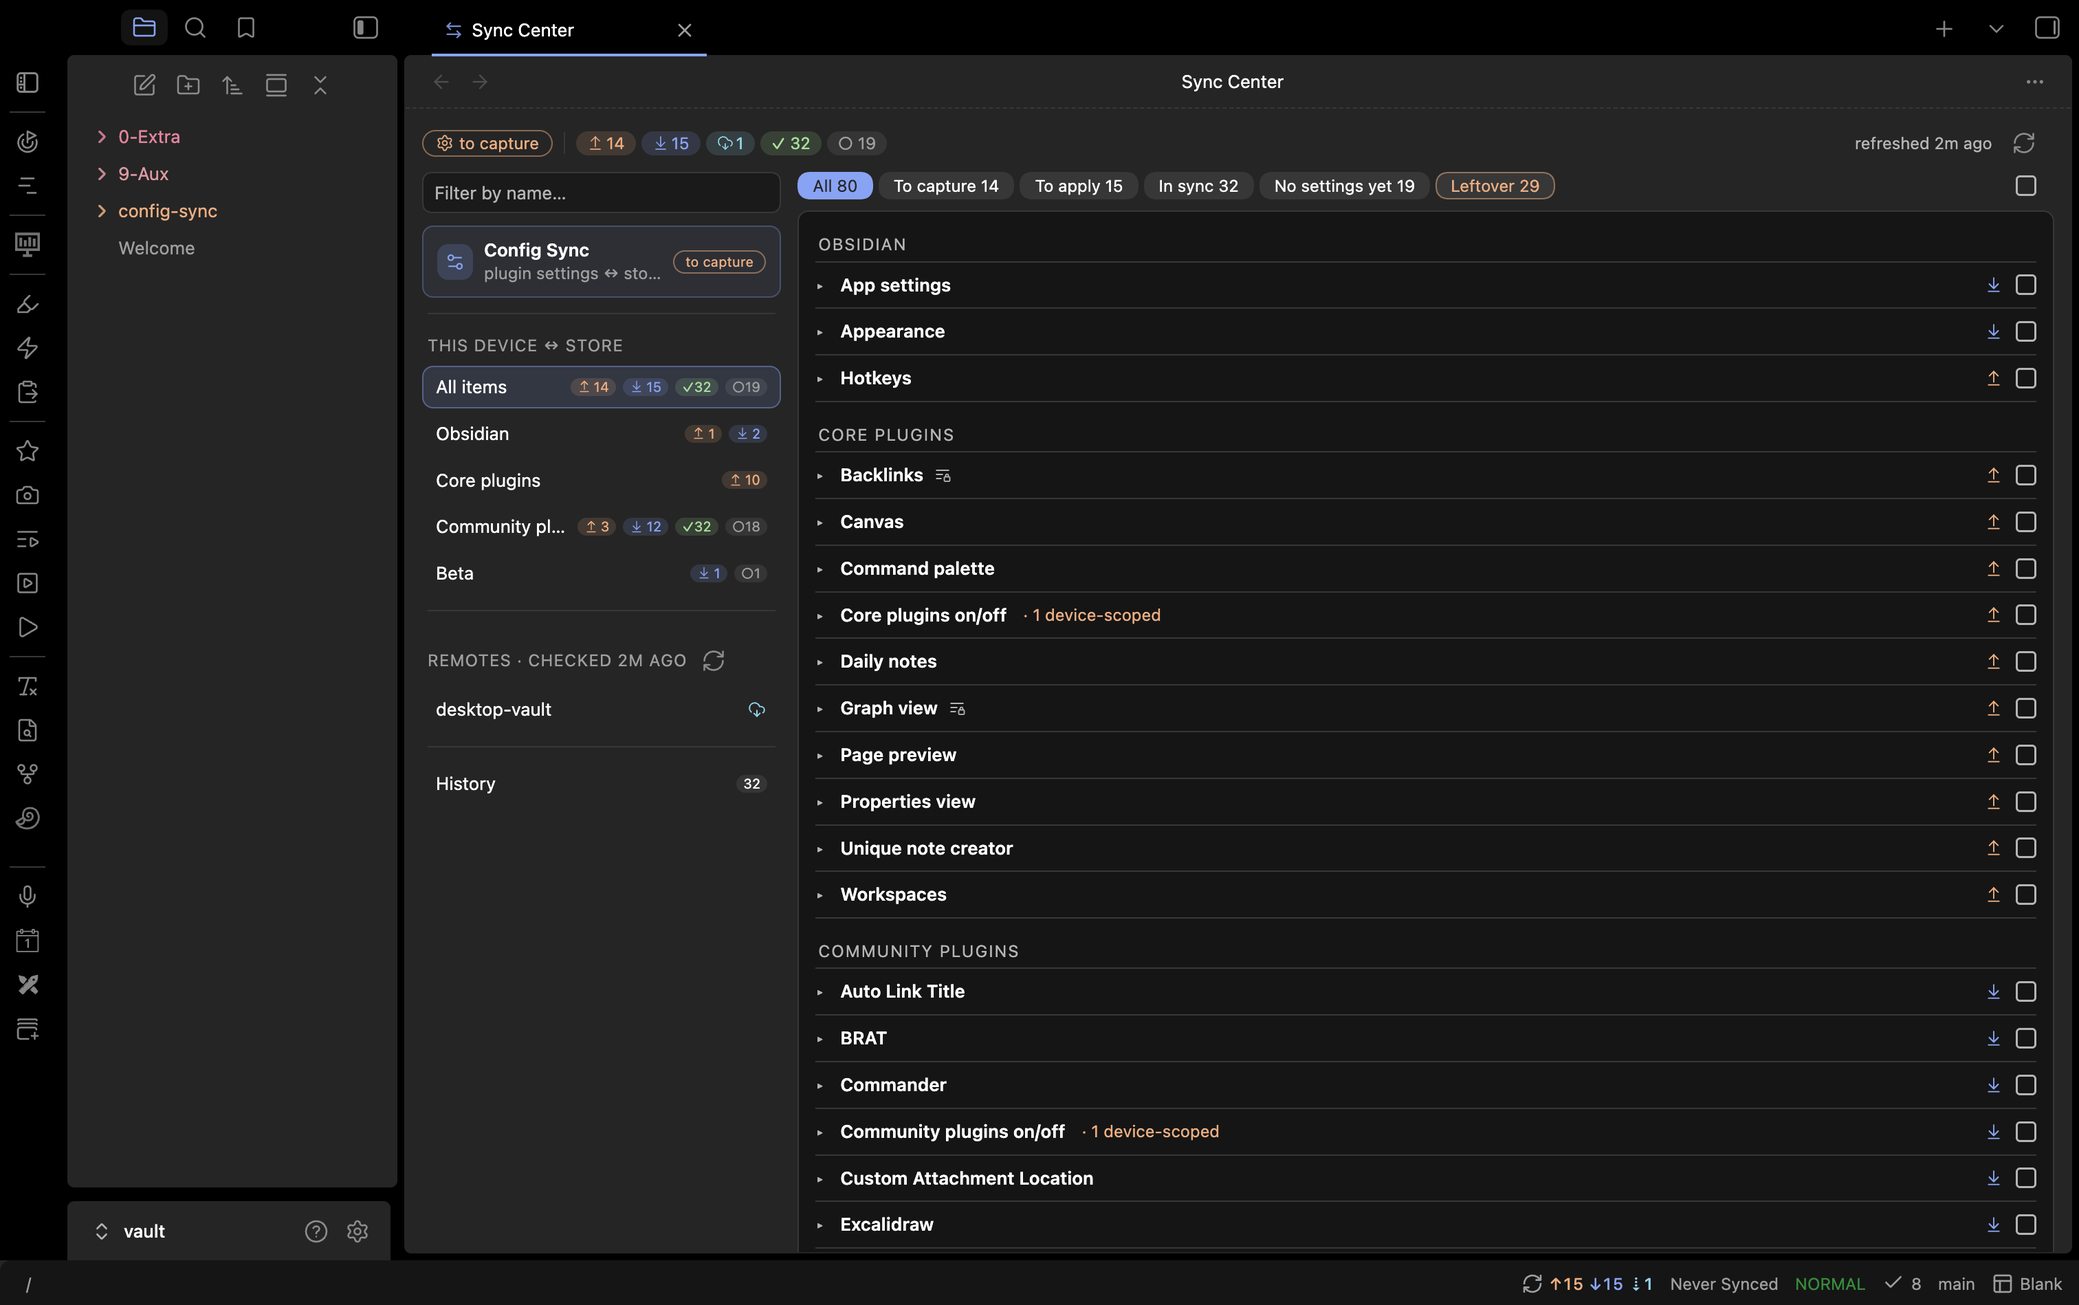
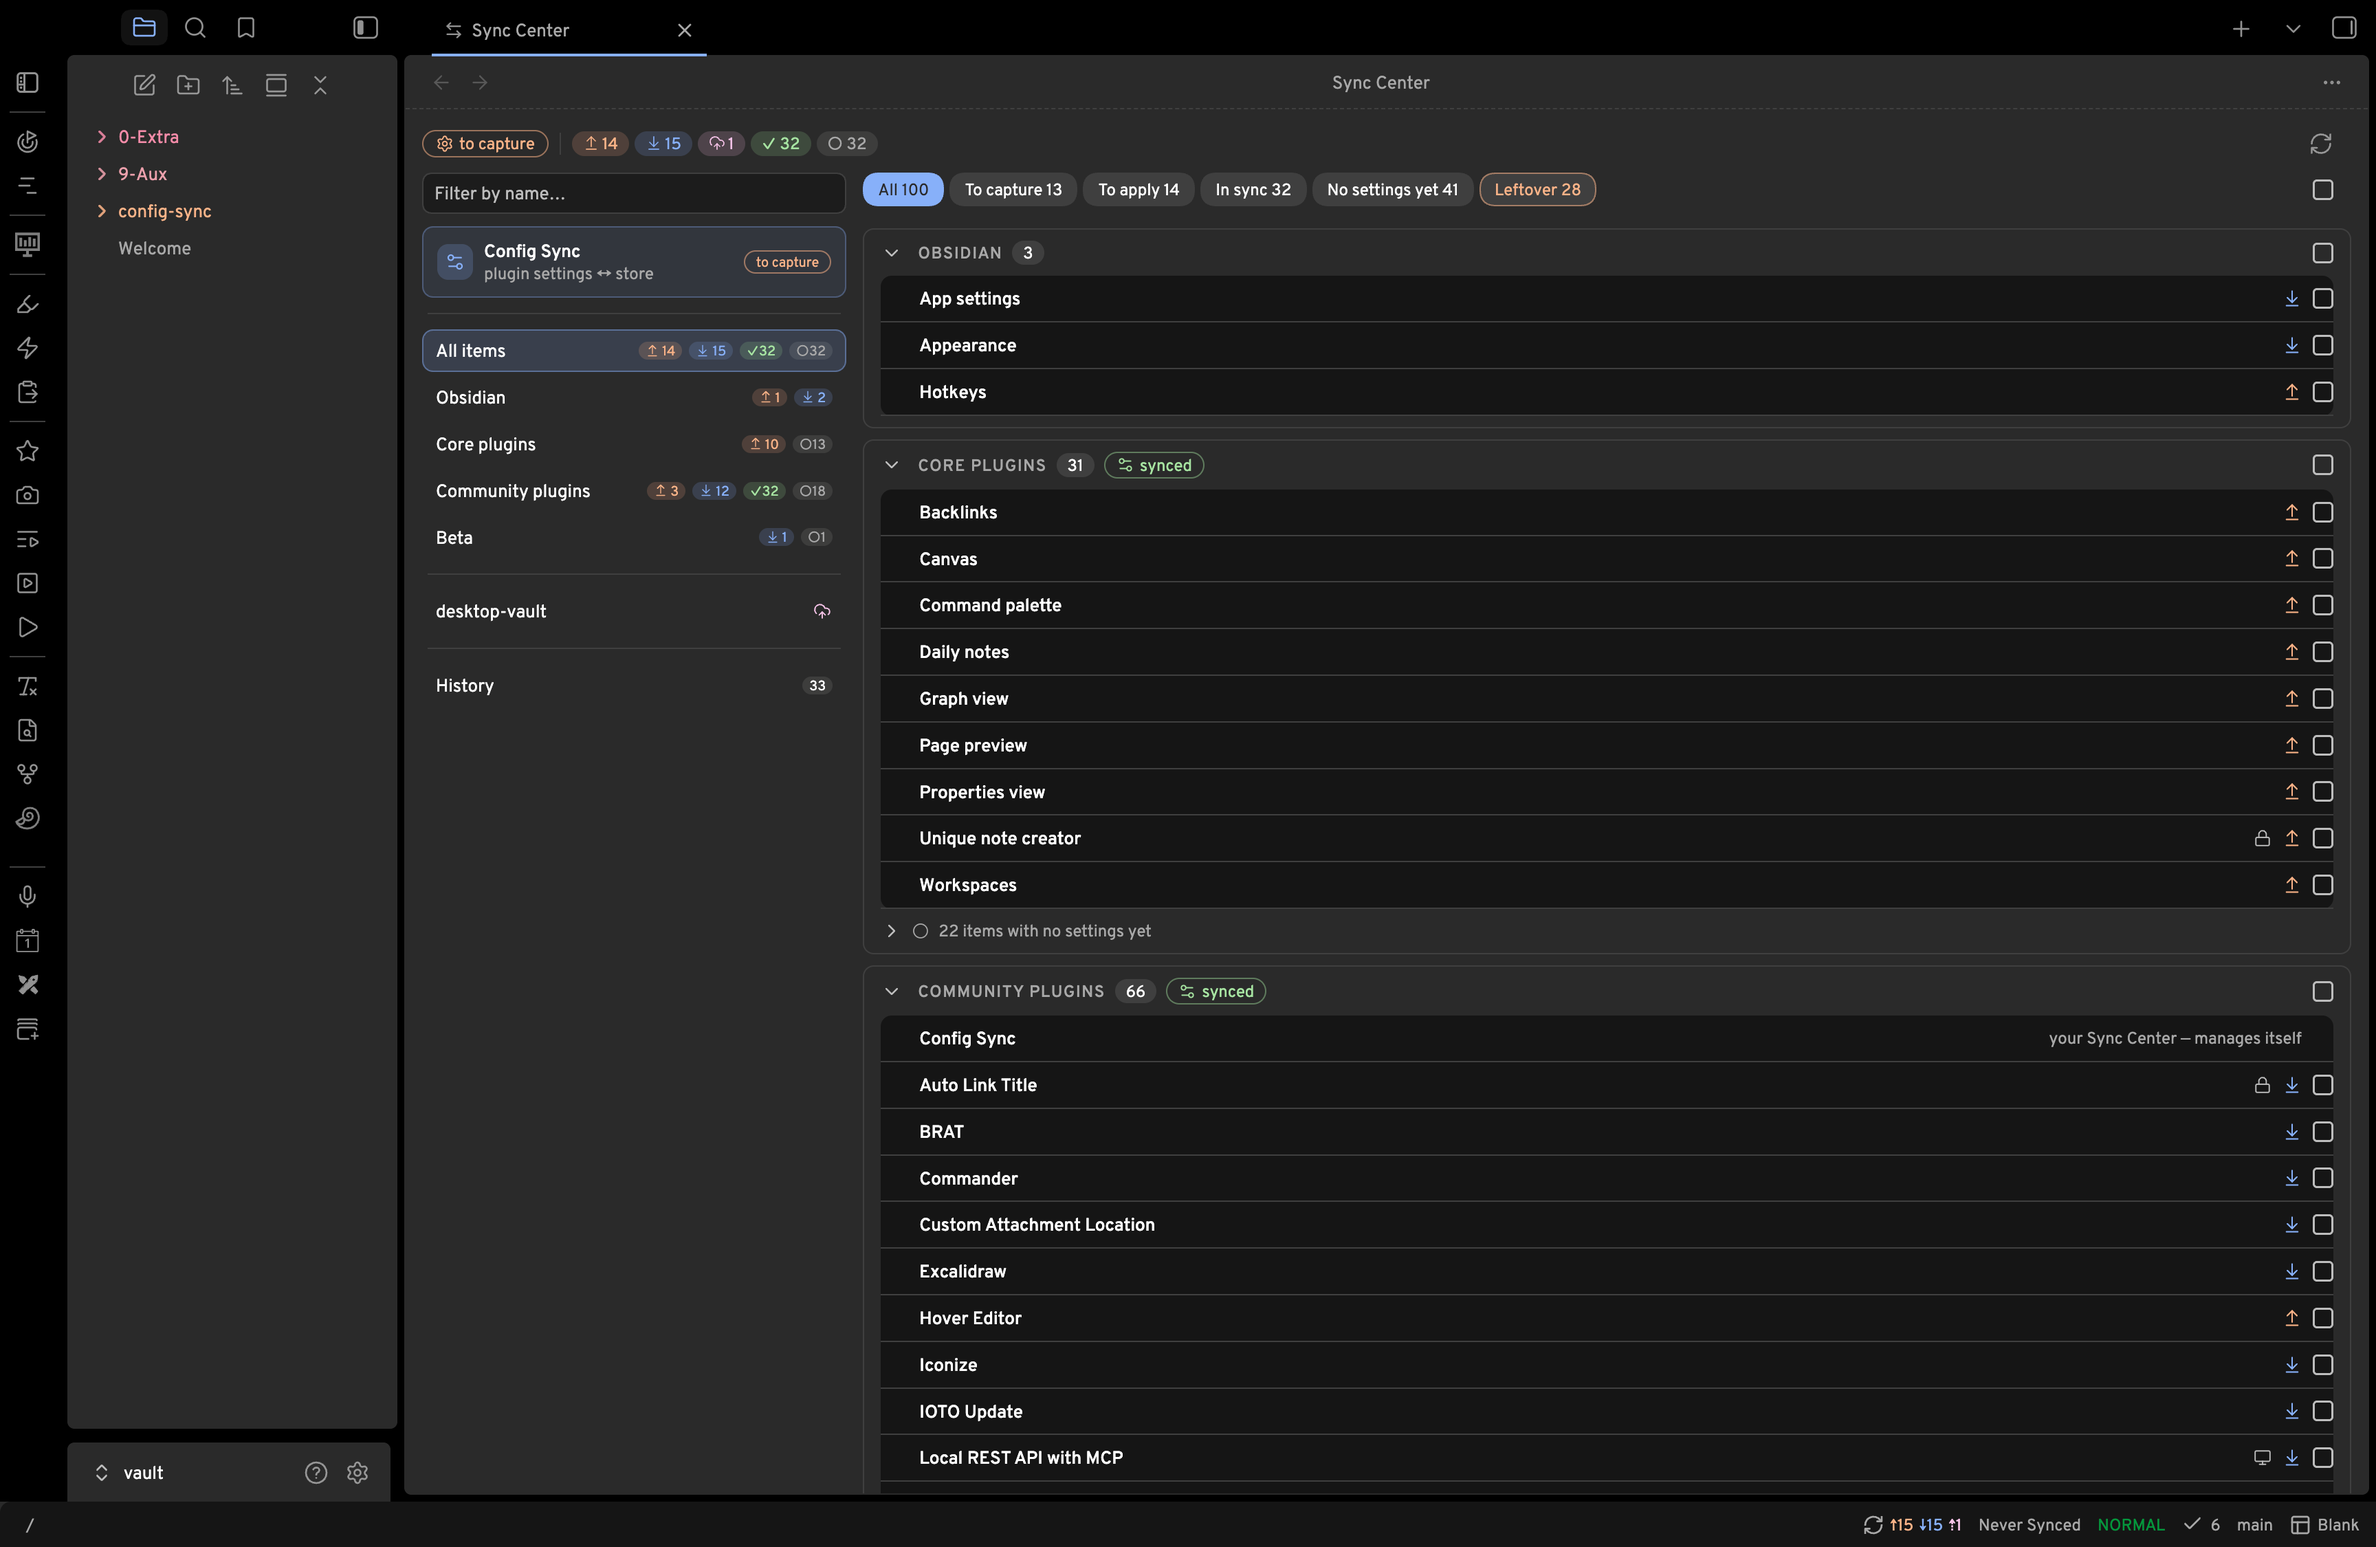
fix(ui): panel-local per-key edits, headless sidebar remotes group
- Advanced per-key edits rebuild only the fields editor panel (detached
  build + child swap, preview scroll carried, generation guard) instead
  of a whole-tab refresh whose async refill visibly collapsed the page;
  failed saves still fall back to the full refresh for the pinned error
- mode/type destructive-change guards read the rule from current state
  at click time — the render-time snapshot misses rules added through
  the panel's local rebuilds
- sidebar: remotes group head (label, checked-age, re-check button)
  removed entirely; grouping is dividers alone and the main region's
  global refresh owns remote re-checking
- refresh README screenshots (sync-panel, settings-picker)

diff --git a/src/ui/SettingTab.ts b/src/ui/SettingTab.ts
@@ -2408,11 +2408,14 @@ export class ConfigSyncSettingTab extends PluginSettingTab {
       void (async () => {
         // Leaving Per-key rules deletes every configured key rule — confirm instead of
         // silently destroying them (the card surface removes rules one at a time; this menu is
-        // the only place they could vanish in bulk).
-        const rulesDropped = group.mode === "fields" && mode !== "fields" ? (group.fields?.length ?? 0) : 0;
+        // the only place they could vanish in bulk). The rule count is read from this.groups at
+        // click time, never from the render-time `group` snapshot: per-key edits rebuild only
+        // the fields panel, so rules added since this drawer rendered are invisible to `group`.
+        const cur = this.groups.find((x) => x.name === group.name) ?? group;
+        const rulesDropped = cur.mode === "fields" && mode !== "fields" ? (cur.fields?.length ?? 0) : 0;
         if (rulesDropped > 0 && !(await confirmDropKeyRules(this.app, rulesDropped))) return;
         let fieldsForNewMode: FieldRule[] | undefined;
-        if (mode === "fields" && group.fields === undefined) {
+        if (mode === "fields" && cur.fields === undefined) {
           const scan = this.detections.get(group.name) ?? (await this.host.detectSensitive(group));
           this.detections.set(group.name, scan);
           if (scan.keys.length > 0) fieldsForNewMode = defaultFieldsFromDetection(scan.keys);
@@ -2451,15 +2454,43 @@ export class ConfigSyncSettingTab extends PluginSettingTab {
   // flattened the orthogonal sharing×encrypted pair, does not exist. Below the rows, the File
   // preview (click any key to add a rule); last, the raw pattern input as the glob escape hatch.
   // One file read feeds rows and preview alike; built after the read completes.
-  private renderFieldsEditor(hostEl: HTMLElement, group: SyncGroup, afterChange: () => void): void {
+  //
+  // Per-key edits rebuild ONLY this panel — the refreshCardBody swap (detached build, child
+  // swap, File-preview scroll carried across), never a whole-tab refresh(): the tab rebuild
+  // re-enters this editor's two-phase async fill, so the page briefly loses the editor's
+  // height and visibly collapses/re-expands. A failed save still falls back to refresh(),
+  // which is what renders the pinned save-error row outside this panel.
+  private renderFieldsEditor(hostEl: HTMLElement, group: SyncGroup): void {
     const panel = hostEl.createDiv({ cls: "config-sync-fields-editor" });
-    void (async () => {
-      const { doc } = parseCardDoc(await this.host.readItemFile(group));
-      this.buildFieldsEditor(panel, group, doc, afterChange);
-    })();
+    const rebuild = (): void => {
+      const gen = String(Number(panel.dataset.csFieldsGen ?? "0") + 1);
+      panel.dataset.csFieldsGen = gen;
+      void (async () => {
+        const fresh = this.groups.find((g) => g.name === group.name);
+        if (fresh === undefined) {
+          this.refresh();
+          return;
+        }
+        const { doc } = parseCardDoc(await this.host.readItemFile(fresh));
+        if (!panel.isConnected || panel.dataset.csFieldsGen !== gen) return; // tab re-rendered or a newer rebuild superseded this read
+        const tmp = createDiv();
+        this.buildFieldsEditor(tmp, fresh, doc, (ok) => {
+          if (ok) rebuild();
+          else this.refresh();
+        });
+        const prevScroll = panel.querySelector(".config-sync-json-pre")?.scrollTop ?? 0;
+        panel.empty();
+        while (tmp.firstChild !== null) panel.appendChild(tmp.firstChild);
+        if (prevScroll > 0) {
+          const pre = panel.querySelector(".config-sync-json-pre");
+          if (pre !== null) pre.scrollTop = prevScroll;
+        }
+      })();
+    };
+    rebuild();
   }
 
-  private buildFieldsEditor(panel: HTMLElement, group: SyncGroup, doc: Record<string, unknown>, afterChange: () => void): void {
+  private buildFieldsEditor(panel: HTMLElement, group: SyncGroup, doc: Record<string, unknown>, afterChange: (ok: boolean) => void): void {
     const detectedKeys = this.detections.get(group.name)?.keys ?? [];
     const rules = group.fields ?? [];
     const setRuleAt = (ruleIndex: number, mutator: (r: FieldRule) => void): void => {
@@ -2601,12 +2632,12 @@ export class ConfigSyncSettingTab extends PluginSettingTab {
       void (async () => {
         const pattern = input.value.trim();
         if (pattern === "") return;
-        await this.commitGroups((draft) => {
+        const ok = await this.commitGroups((draft) => {
           const g = draft.find((x) => x.name === group.name);
           if (g === undefined) return;
           g.fields = [...(g.fields ?? []), { pattern, ...LOCAL_RULE }];
         }, group.name);
-        afterChange();
+        afterChange(ok);
       })();
     });
   }
@@ -3366,8 +3397,11 @@ export class ConfigSyncSettingTab extends PluginSettingTab {
             i.setTitle(TYPE_META[t].label).setIcon(TYPE_META[t].icon).setChecked(group.type === t).onClick(async () => {
               if (t === group.type) return;
               // Flipping away from "file" drops key rules and the encryption mode — confirm
-              // instead of silently destroying them.
-              const destructive = group.mode !== undefined || (group.fields?.length ?? 0) > 0;
+              // instead of silently destroying them. Read from this.groups at click time: the
+              // render-time `group` snapshot misses rules added through the fields panel's
+              // local rebuilds.
+              const cur = this.groups.find((x) => x.name === group.name) ?? group;
+              const destructive = cur.mode !== undefined || (cur.fields?.length ?? 0) > 0;
               if (destructive && !(await confirmTypeFlip(this.app, t))) return;
               await this.commitGroups((draft) => {
                 const g = draft.find((x) => x.name === group.name);
@@ -3409,7 +3443,7 @@ export class ConfigSyncSettingTab extends PluginSettingTab {
       });
     });
     if (group.mode === "fields") {
-      this.renderFieldsEditor(panel.createDiv(), group, () => this.refresh());
+      this.renderFieldsEditor(panel.createDiv(), group);
     }
     this.renderDetectionNote(panel, group);
   }

diff --git a/src/ui/SyncCenterView.ts b/src/ui/SyncCenterView.ts
@@ -1429,9 +1429,10 @@ export class SyncCenterView extends ItemView {
 
   private renderSectionEntries(container: HTMLElement): void {
     this.renderSelfEntry(container);
-    // No head over the scope list: the self card's own "plugin settings ↔ store"
-    // subtitle already carries the device↔store relation — grouping is by dividers alone, and
-    // the only head left is Remotes', which earns its place by carrying live checked-age state.
+    // No group heads anywhere in the sidebar: the self card's own "plugin settings ↔ store"
+    // subtitle already carries the device↔store relation, and remotes sit behind their own
+    // divider like every other group — re-checking them belongs to the main region's global
+    // refresh button alone, and each remote row's state icon carries the result.
     container.createDiv({ cls: "config-sync-side-divider" });
 
     const deviceEntry = (cat: StorageSection | "beta" | "all", label: string, rows: StatusRow[]): void => {
@@ -1470,21 +1471,6 @@ export class SyncCenterView extends ItemView {
     const remotes = this.host.remotes();
     if (remotes.length > 0) {
       container.createDiv({ cls: "config-sync-side-divider" });
-      let newestCheck: number | null = null;
-      for (const remote of remotes) {
-        const c = this.host.remoteCheck(remote.name);
-        if (c !== undefined && (newestCheck === null || c.at > newestCheck)) newestCheck = c.at;
-      }
-      const head = container.createDiv({ cls: "config-sync-side-head config-sync-side-head-remotes" });
-      head.createSpan({ text: `Remotes · checked ${newestCheck === null ? "never" : relativeAge(newestCheck)}` });
-      const refresh = new ExtraButtonComponent(head);
-      refresh.setIcon("refresh-cw");
-      refresh.setTooltip("Re-check remotes");
-      refresh.onClick(async () => {
-        await this.host.refreshRemoteChecks();
-        this.render(this.renderGen);
-      });
-      refresh.extraSettingsEl.toggleClass("config-sync-refresh-spinning", this.host.remoteRefreshProgress() !== null);
       remotes.forEach((remote, idx) => {
         const active = this.panelSection.kind === "remote" && this.panelSection.name === remote.name;
         const item = container.createDiv({ cls: `config-sync-side-item${active ? " is-active" : ""}` });

diff --git a/styles.css b/styles.css
@@ -758,10 +758,6 @@ button.is-busy::before { content: ""; width: 11px; height: 11px; margin-right: 6
    carries the sidebar's own column layout while the search input above it stays put. */
 .config-sync-side-section { display: flex; flex-direction: column; gap: 3px; }
 
-.config-sync-side-head { font-size: var(--font-ui-smaller); text-transform: uppercase; letter-spacing: 0.05em; color: var(--text-muted); padding: var(--size-4-1) 4px; display: flex; align-items: center; gap: var(--size-4-1); }
-
-.config-sync-side-head-remotes { margin-top: var(--size-4-2); }
-
 /* Visual grouping in the sidebar (This device / Remotes / History). */
 .config-sync-side-divider { height: 1px; background: var(--background-modifier-border); margin: var(--size-4-2) 4px; }
 

diff --git a/docs/design/DESIGN.md b/docs/design/DESIGN.md
@@ -394,15 +394,16 @@ noted):
 - **Pills** `config-sync-pill` (is-up/down/ok/none/neutral/warn/error/statenote) — counts and
   states; never interactive. **Filter pills** `config-sync-fpill` in `-fpillrow` — buttons;
   long/short label spans; mobile = glyph form, one line. Shared with the settings search's section pills.
-- **Sidebar** `config-sync-side-item/-side-badge/-side-head` — sections with tiny count
+- **Sidebar** `config-sync-side-item/-side-badge` — sections with tiny count
   badges; active = accent tint. The Config Sync self layer leads as a distinct hero card
   `config-sync-side-self` (`-side-self-ic` icon tile, `-side-self-title`/`-side-self-sub`,
   `-side-self-pill` reusing `selfStatePill`), echoing the header self-chip. Grouping is by
-  `config-sync-side-divider` hairlines alone: self card / scope list / remotes /
-  History each separated by one divider, with NO group head except Remotes — its head is the one
-  that earns its place by carrying live state (`Remotes · checked <age>` + the re-check
-  button); the self card's own `plugin settings ↔ store` subtitle already carries the
-  device↔store relation, so the scope list carries no head. **Switcher**
+  `config-sync-side-divider` hairlines alone: self card / scope list / remote rows /
+  History each separated by one divider, with NO group heads anywhere. Re-checking remotes
+  belongs to the main region's global refresh button alone (it re-scans local state AND
+  re-checks every remote; its tooltip carries the refreshed-age), and each remote row's own
+  state icon carries the result. The self card's own `plugin settings ↔ store` subtitle
+  already carries the device↔store relation. **Switcher**
   `config-sync-switcher` — compact replacement.
 - **Rows** `config-sync-hub-row` — one object = one row: chevron, name (`-rule-name`),
   a spacer, then the fate chips (`config-sync-fatechip`, rendered only when a fact deviates
@@ -694,6 +695,14 @@ noted):
   (same `config-sync-json-*` treatment, `Click any key to add a rule for it` hint, keys colored
   by rule, click-to-add) renders for file-type rules; the raw
   `Add key pattern…` input stays as the glob escape hatch, last.
+  Every per-key edit (lock, sharing, remove, per-item flip, click-to-add, glob add) rebuilds
+  ONLY the fields-editor panel — detached build, child swap, File-preview scroll carried
+  across, a generation guard against superseded reads — never the whole tab (whose re-render
+  re-enters the editor's async file read and visibly collapses/re-expands the page). A failed
+  save still falls back to the full refresh, which renders the pinned save-error row. Because
+  the surrounding form outlives those rebuilds, its destructive-change guards (MODE leaving
+  Per-key, TYPE flip) read the rule from current state at click time, never from the
+  render-time snapshot.
   A failed save pins its
   error inline with the CONCRETE reason — the no-error sentinel is `null`, never `""` (an
   empty-string sentinel collides with the unnamed placeholder rule's empty name, making a
